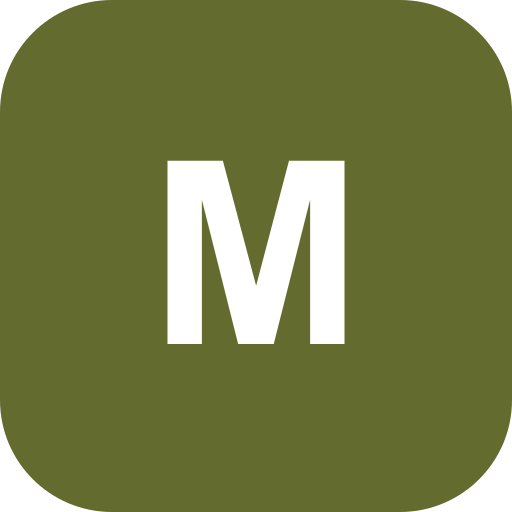
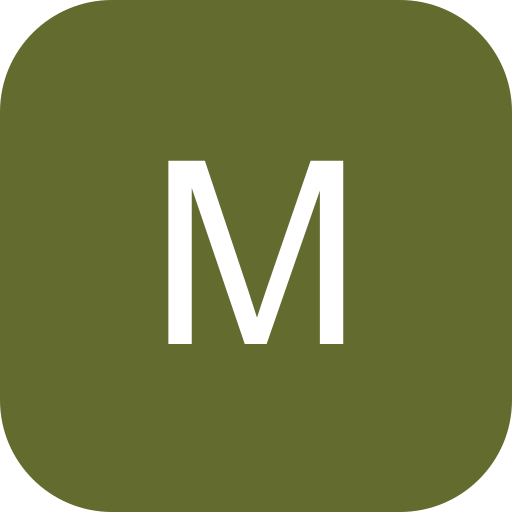
Use regular weight for Meal Planner mark

Changed region(s): [[0.375, 0.3125, 0.625, 0.6875], [0.6562, 0.3125, 0.6875, 0.6562], [0.3125, 0.3125, 0.3438, 0.6562]]

diff --git a/apps/web/src/index.html b/apps/web/src/index.html
@@ -15,9 +15,9 @@
   <meta name="apple-mobile-web-app-capable" content="yes">
   <meta name="apple-mobile-web-app-status-bar-style" content="default">
   <meta name="apple-mobile-web-app-title" content="Meal Planner">
-  <link rel="icon" type="image/svg+xml" sizes="any" href="favicon.svg?v=3">
-  <link rel="apple-touch-icon" sizes="180x180" href="apple-touch-icon.png?v=3">
-  <link rel="manifest" href="manifest.webmanifest?v=3">
+  <link rel="icon" type="image/svg+xml" sizes="any" href="favicon.svg?v=4">
+  <link rel="apple-touch-icon" sizes="180x180" href="apple-touch-icon.png?v=4">
+  <link rel="manifest" href="manifest.webmanifest?v=4">
   <script src="env.js"></script>
 </head>
 <body>

diff --git a/apps/web/src/app/ui/brand/ui-brand.component.scss b/apps/web/src/app/ui/brand/ui-brand.component.scss
@@ -13,7 +13,7 @@
   border-radius: var(--radius-md);
   background: var(--color-primary);
   color: var(--color-text-inverse);
-  font-weight: var(--font-weight-bold);
+  font-weight: var(--font-weight-regular);
   line-height: 1;
   box-shadow: var(--shadow-sm);
 }
